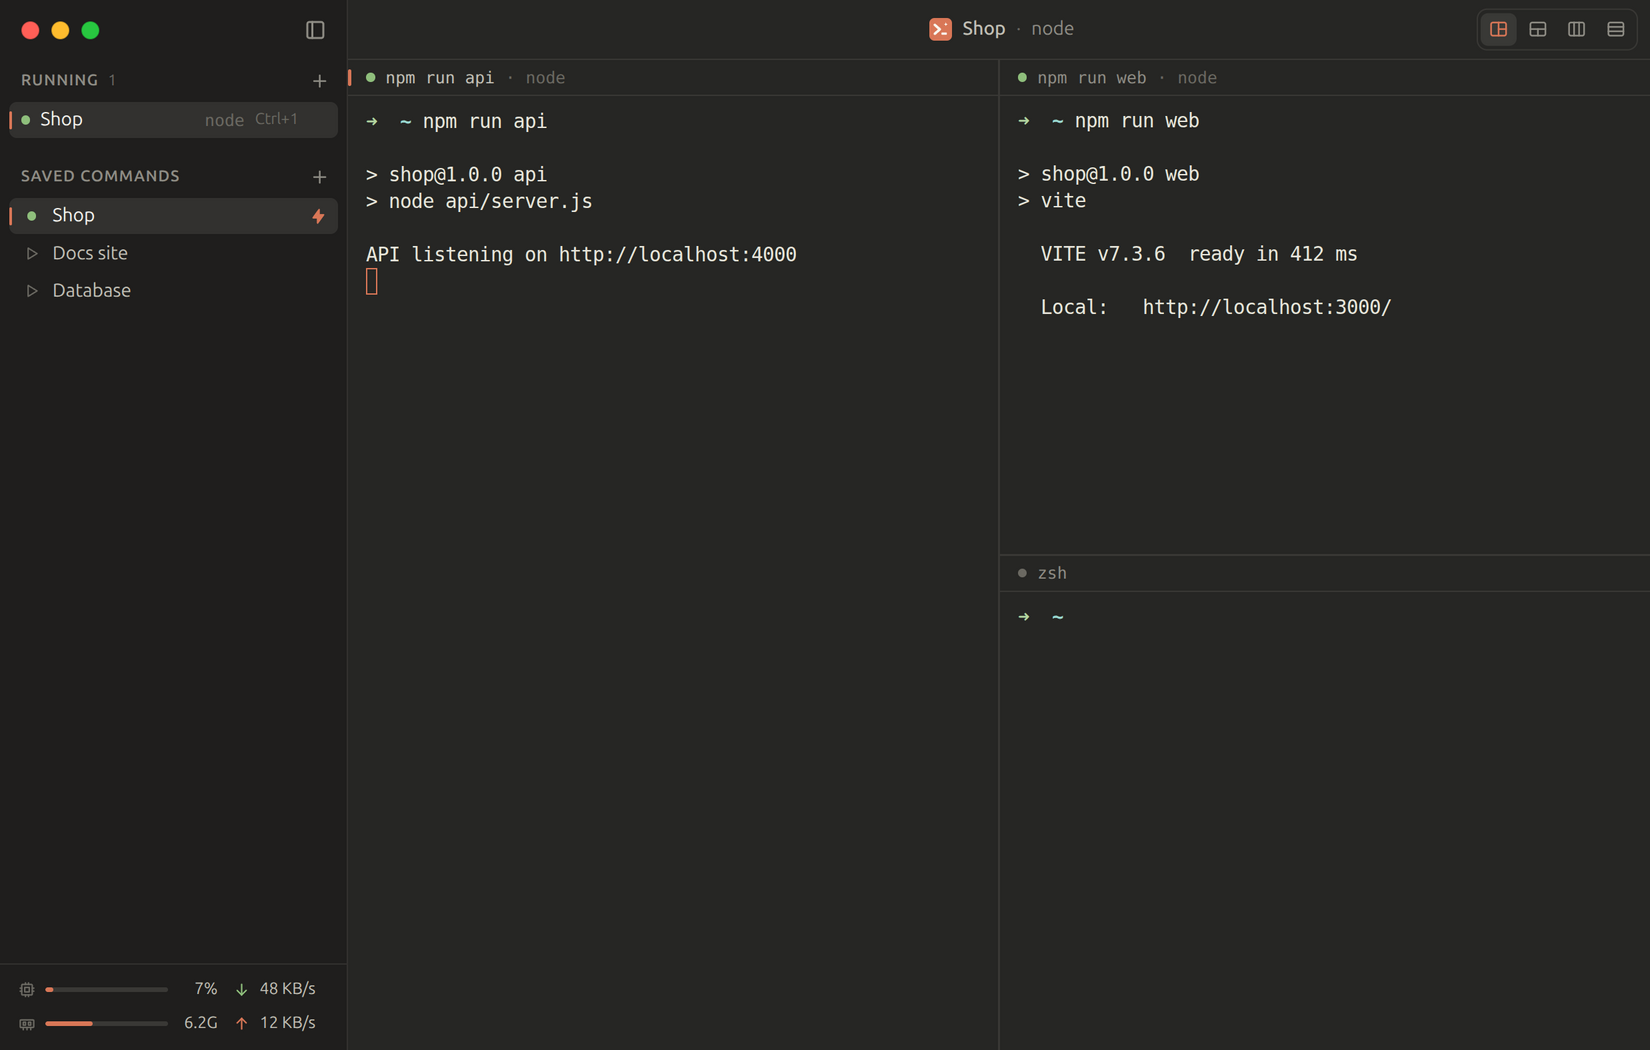
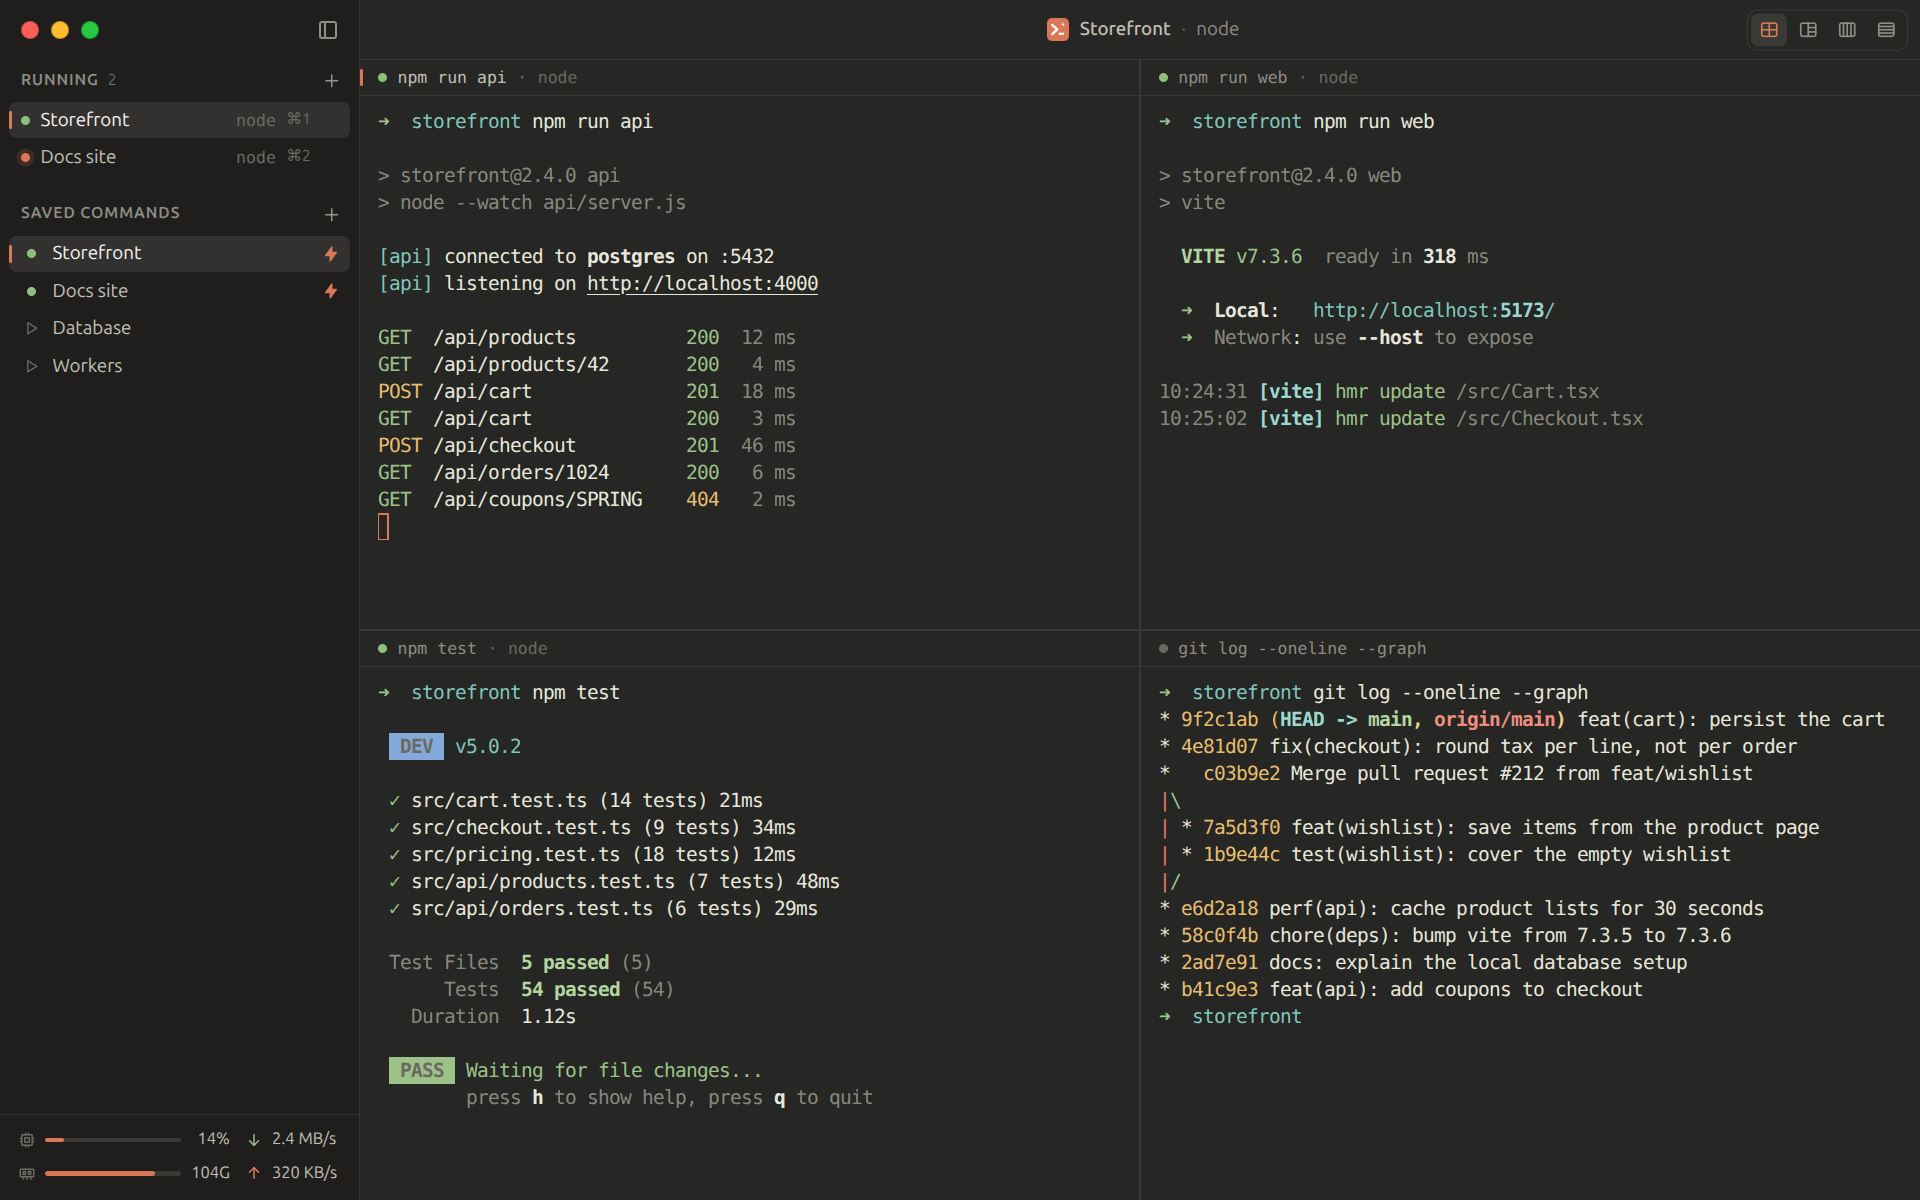
docs(readme): show a four-terminal saved command in the screenshot

diff --git a/README.md b/README.md
@@ -4,7 +4,7 @@
 
 A terminal app for macOS and Linux with a warm dark theme, saved commands that open several terminals side by side, and auto-start. Built with Electron, React, xterm.js and node-pty.
 
-![Termi running a saved command with an API server, a web server and a plain shell side by side](docs/screenshot.png)
+![Termi on macOS, with a saved command running an API server, a web server, the tests in watch mode and the git log in a grid of four terminals](docs/screenshot.png)
 
 ## What it does
 
